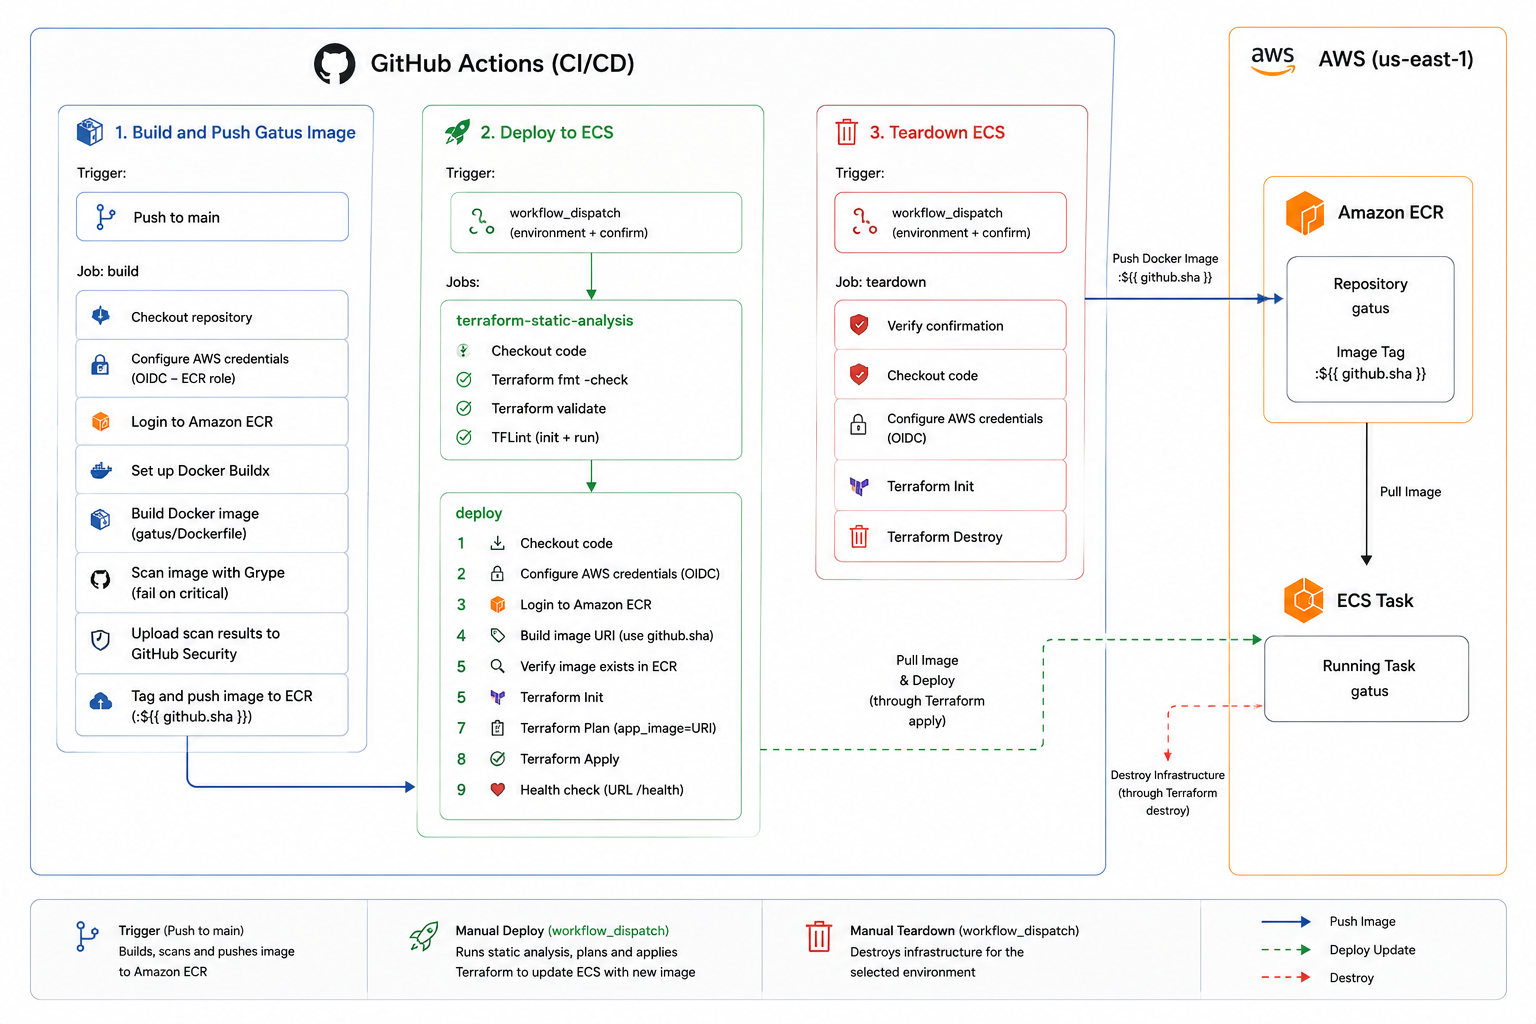
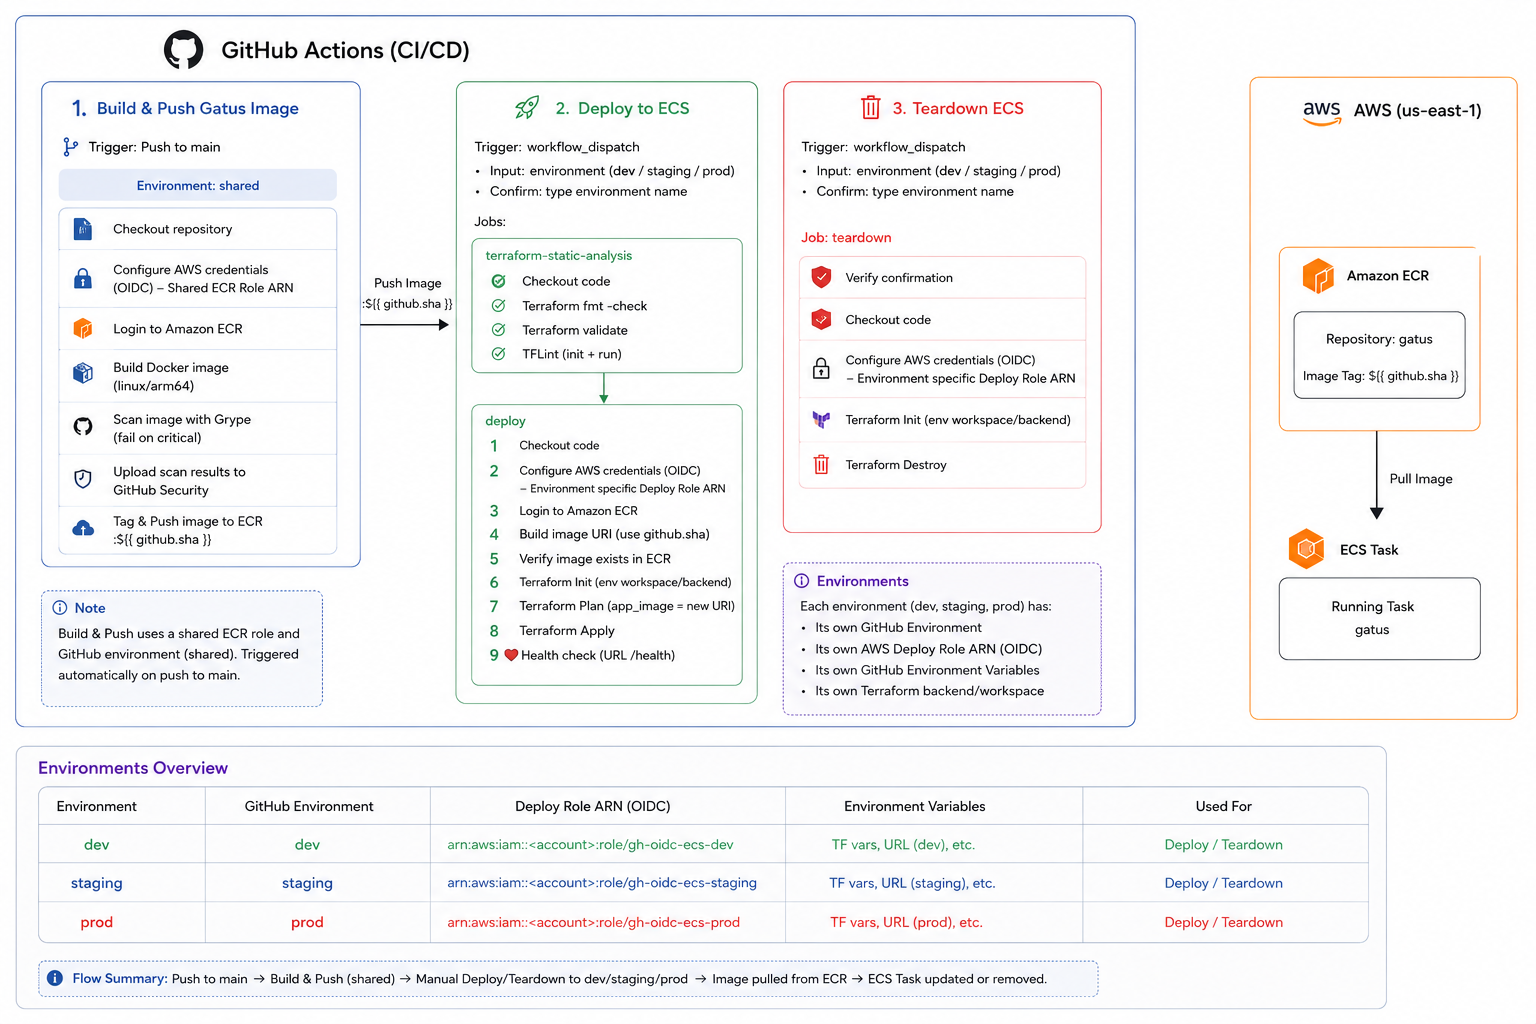
feat: final images

diff --git a/README.md b/README.md
@@ -8,13 +8,15 @@ deploys). Authentication to AWS uses **GitHub OIDC** — no long-lived AWS keys 
 
 ---
 
-## Architecture
+## AWS Architecture
+![Architecture Diagram](screenshots/aws_final.png)
 
+
+## CICD Architecture
 ![Architecture Diagram](screenshots/cicd_final.png)
 
 
 
-![Architecture Diagram](screenshots/aws_final.png)
 
 ---
 